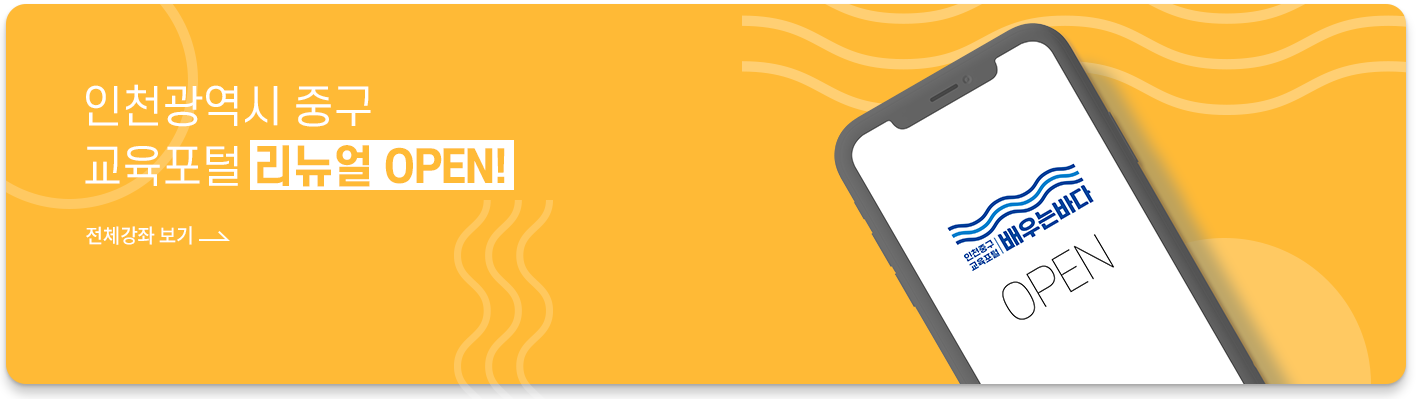
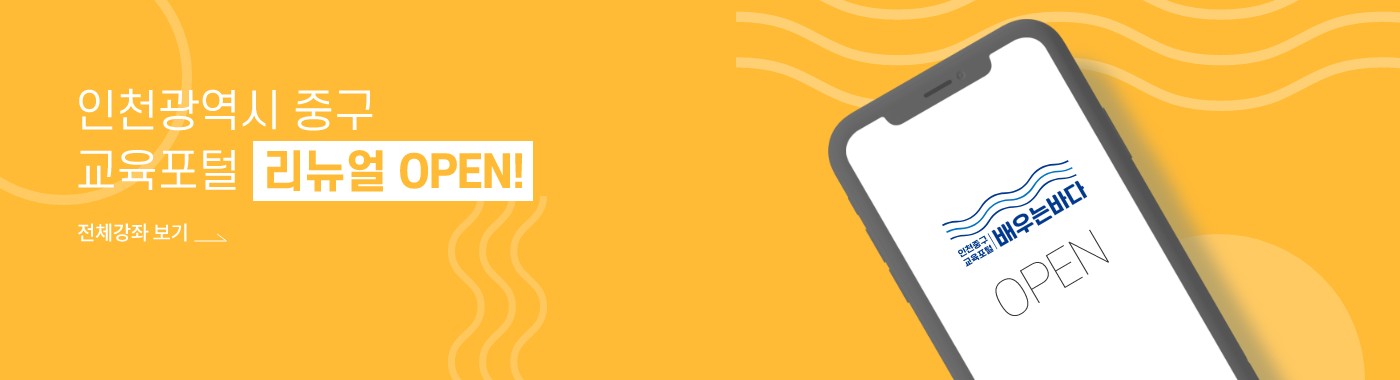
20230303 kye qr코드 상단 내용 추가, main 슬라이드 이미지 교체 및 쉐도우 추가, 수강신청-상세 에디터 영역 이미지 100% 수정

diff --git a/assets/pages/qr코드.html b/assets/pages/qr코드.html
@@ -1,59 +1,58 @@
 <!DOCTYPE html>
 <html lang="ko">
+	<head>
+		<meta charset="UTF-8" />
+		<meta http-equiv="X-UA-Compatible" content="IE=edge" />
+		<meta
+			name="viewport"
+			content="width=device-width,initial-scale=1.0,minimum-scale=1.0,maximum-scale=10.0,user-scalable=yes"
+		/>
+		<meta name="description" content="" />
+		<title>인천 중구청</title>
 
-<head>
-  <meta charset="UTF-8">
-  <meta http-equiv="X-UA-Compatible" content="IE=edge">
-  <meta name="viewport"
-    content="width=device-width,initial-scale=1.0,minimum-scale=1.0,maximum-scale=10.0,user-scalable=yes" />
-  <meta name="description" content="">
-  <title>인천 중구청</title>
+		<!-- =================== Favicon =================== -->
 
-  <!-- =================== Favicon =================== -->
+		<!-- =================== LINK =================== -->
+		<link rel="stylesheet" href="../front/css/ui.css" />
+		<link rel="stylesheet" href="../front/css/yg.css" />
 
-
-  <!-- =================== LINK =================== -->
-  <link rel="stylesheet" href="../front/css/ui.css">
-  <link rel="stylesheet" href="../front/css/yg.css">
-
-  <!-- =================== SCRIPT =================== -->
-  <!-- <script src="../front/js/jquery.js"></script>
+		<!-- =================== SCRIPT =================== -->
+		<!-- <script src="../front/js/jquery.js"></script>
   <script src="../front/js/jquery-ui.js"></script>
   <script src='../front/js/index.global.min.js'></script>
   <script src="../front//js/datepicker.js"></script>
   <script src="../front/js/swiper.js"></script>
   <script src="../front/js/main.js"></script> -->
 
-  <!-- include -->
-  <!-- <script type="text/javascript">
+		<!-- include -->
+		<!-- <script type="text/javascript">
     $(document).ready(function () {
       $("#header").load("./header.html");
       $("#footer").load("./footer.html");
     });
   </script> -->
-</head>
+	</head>
 
-<body>
+	<body>
+		<div id="wrapper" class="wrapper">
+			<div class="qr-top">
+				<div class="qr-top-tit">출석체크</div>
+				<div class="qr-top-info">
+					공부머리 독서법 공부머리 독서법공부머리 독서법공부머리 독서법
+				</div>
+			</div>
+			<div class="qr-code">
+				<div class="qr-code-tit">휴대폰 번호를 입력해주세요</div>
+				<div class="qr-code-info">
+					<input type="text" class="comInput" />
+					-
+					<input type="text" class="comInput" />
+					-
+					<input type="text" class="comInput" />
+				</div>
 
-
-  <div id="wrapper">
-    <div class="qr-code">
-      <div class="qr-code-tit">
-        휴대폰 번호를 입력해주세요
-      </div>
-      <div class="qr-code-info">
-        <input type="text" class="comInput">
-        -
-        <input type="text" class="comInput">
-        -
-        <input type="text" class="comInput">
-      </div>
-
-      <button class="comBtn bgMain sizeLg">출석하기</button>
-    </div>
-  </div>
-
-
-</body>
-
+				<button class="comBtn bgMain sizeLg">출석하기</button>
+			</div>
+		</div>
+	</body>
 </html>

diff --git a/assets/front/css/yg.css b/assets/front/css/yg.css
@@ -307,6 +307,9 @@ a {
   background: #fff;
 }
 
+.lecture img {
+  width: 100% !important;
+}
 .lecture.detail {
   margin-top: 3.125rem;
 }
@@ -1507,6 +1510,37 @@ a {
   color: #2d2d2d !important;
 }
 
+.visual .visualSlide .swiper-slide a img {
+  border-radius: 20px;
+  box-shadow: rgba(0, 0, 0, 0.16) 0px 3px 6px;
+  height: auto;
+}
+
+.wrapper {
+  margin: 0 auto;
+  height: 90vh;
+}
+.wrapper .qr-top {
+  margin-top: 3rem;
+  text-align: center;
+  padding: 0 1rem 0;
+}
+.wrapper .qr-top .qr-top-tit {
+  font-size: 2.5rem;
+  font-weight: 600;
+}
+.wrapper .qr-top .qr-top-info {
+  padding: 5rem 0 1.2rem;
+  font-size: 2rem;
+  border-bottom: 1px solid #2d2d2d;
+  text-align: left;
+  line-height: 2.5rem;
+}
+.wrapper .qr-code {
+  margin-top: 12rem;
+  height: auto !important;
+}
+
 @media all and (max-width: 1399px) {
   html {
     font-size: 0.875rem;
@@ -1568,6 +1602,9 @@ a {
   }
   .introType .list-1 .kk2 {
     height: 26.5rem !important;
+  }
+  .lecture {
+    width: 100% !important;
   }
 }
 @media all and (max-width: 900px) {
@@ -1694,6 +1731,9 @@ a {
     flex: 0 0 33%;
     height: 13rem !important;
     object-fit: cover;
+  }
+  .lecture {
+    width: 100% !important;
   }
 }
 @media all and (max-width: 600px) {
@@ -1826,6 +1866,9 @@ a {
     height: 25rem !important;
     object-fit: cover;
     flex: 1 0 auto;
+  }
+  .lecture {
+    width: 100% !important;
   }
 }
 

diff --git a/assets/front/scss/yg.scss b/assets/front/scss/yg.scss
@@ -164,6 +164,10 @@
 }
 
 .lecture {
+	img {
+		width: 100% !important;
+	}
+
 	&.detail {
 		margin-top: 3.125rem;
 	}
@@ -1562,6 +1566,42 @@
 	}
 }
 
+.visual .visualSlide .swiper-slide {
+	a img {
+		border-radius: 20px;
+		box-shadow: rgba(0, 0, 0, 0.16) 0px 3px 6px;
+		height: auto;
+	}
+}
+
+.wrapper {
+	margin: 0 auto;
+	height: 90vh;
+
+	.qr-top {
+		margin-top: 3rem;
+		text-align: center;
+		padding: 0 1rem 0;
+
+		.qr-top-tit {
+			font-size: 2.5rem;
+			font-weight: 600;
+		}
+
+		.qr-top-info {
+			padding: 5rem 0 1.2rem;
+			font-size: 2rem;
+			border-bottom: 1px solid #2d2d2d;
+			text-align: left;
+			line-height: 2.5rem;
+		}
+	}
+	.qr-code {
+		margin-top: 12rem;
+		height: auto !important;
+	}
+}
+
 // 미디어 쿼리
 @include media($web) {
 	html {
@@ -1635,6 +1675,9 @@
 		.kk2 {
 			height: 26.5rem !important;
 		}
+	}
+	.lecture {
+		width: 100% !important;
 	}
 }
 
@@ -1808,6 +1851,9 @@
 			height: 13rem !important;
 			object-fit: cover;
 		}
+	}
+	.lecture {
+		width: 100% !important;
 	}
 }
 
@@ -1986,5 +2032,8 @@
 			object-fit: cover;
 			flex: 1 0 auto;
 		}
+	}
+	.lecture {
+		width: 100% !important;
 	}
 }
